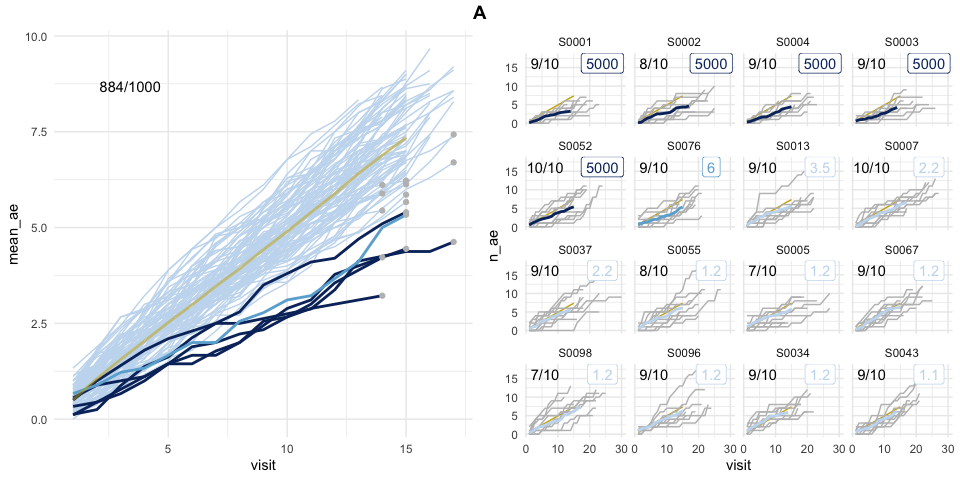
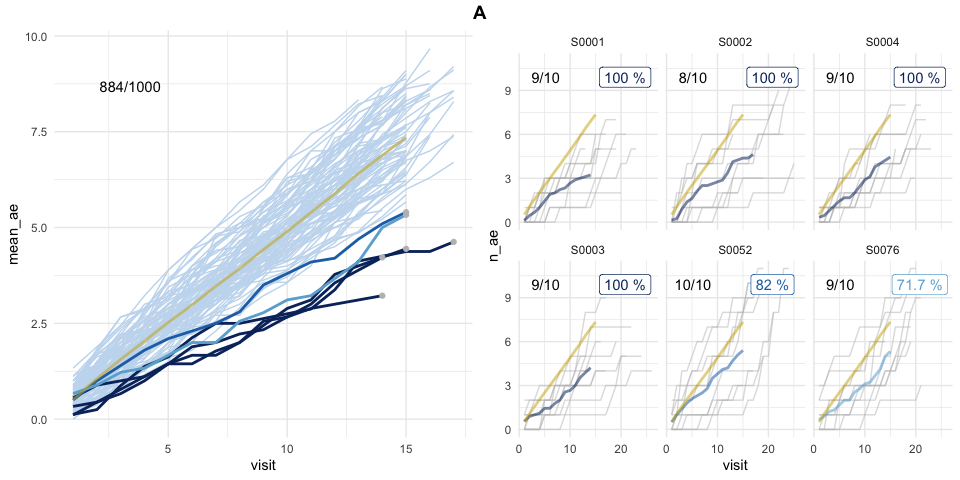
study_roche to study_id

diff --git a/README.md b/README.md
@@ -47,18 +47,15 @@ df_visit <- boot_sim_test_data_study(n_pat = 1000, # number of patients in study
                                      ae_per_visit_mean = 0.5 # mean AE per patient visit
                                      )
 
-df_visit$study_roche <- "A"
+df_visit$study_id <- "A"
+
 df_site <- site_aggr(df_visit)
 
-df_sim_sites <- sim_sites(df_site, df_visit, r = 100)
+df_sim_sites <- sim_sites(df_site, df_visit, r = 1000)
 
-df_eval <- eval_sites(df_sim_sites, r_sim_sites = 100)
+df_eval <- eval_sites(df_sim_sites, r_sim_sites = 1000)
 
 plot_study(df_visit, df_site, df_eval, study = "A") 
-#> Warning: Removed 1 rows containing missing values (geom_label).
-#> Warning: Removed 16 rows containing missing values (geom_label).
-
-#> Warning: Removed 16 rows containing missing values (geom_label).
 ```
 
 <img src="man/figures/README-unnamed-chunk-2-1.png" width="100%" />
